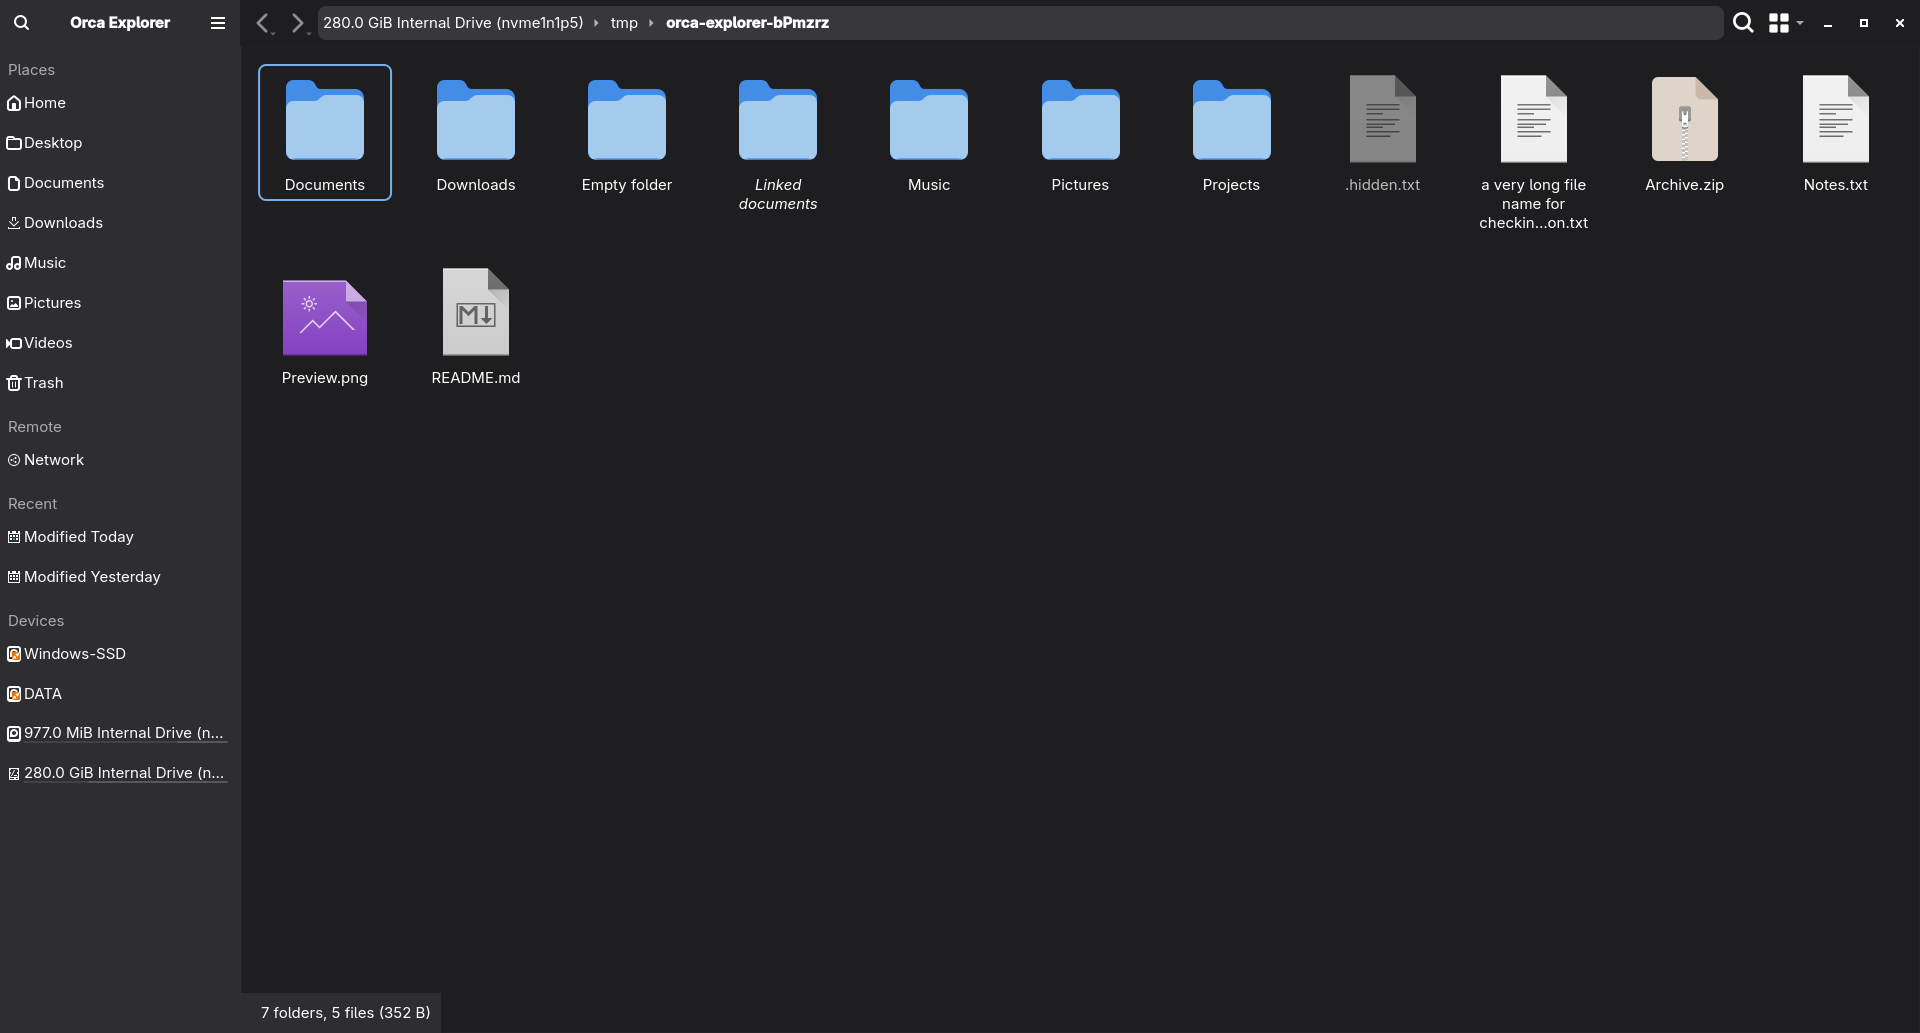
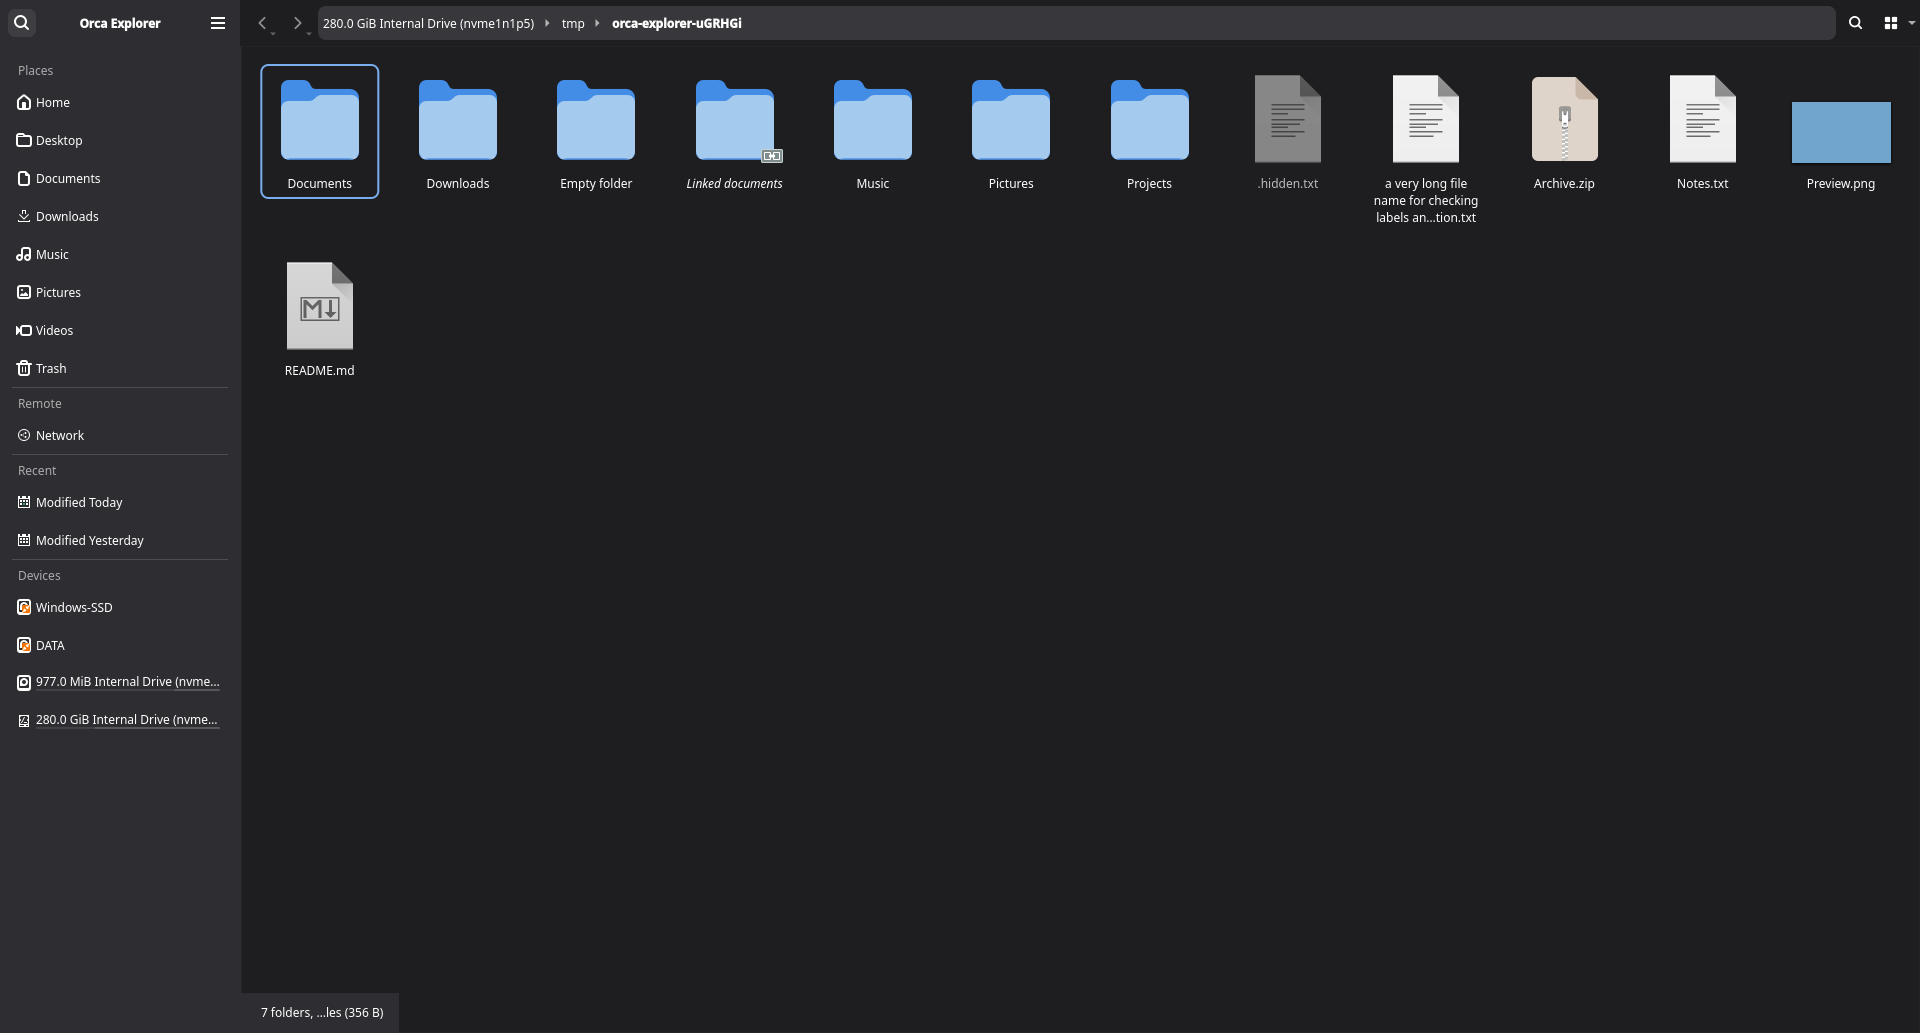
Enhance UI elements and improve toolbar button appearance in PlacesPanel and GnomeHeaderBar

diff --git a/src/tests/dolphinappearancetest.cpp b/src/tests/dolphinappearancetest.cpp
@@ -35,9 +35,12 @@
 #include <QDirIterator>
 #include <QDockWidget>
 #include <QDomDocument>
+#include <QElapsedTimer>
 #include <QImage>
+#include <QPainter>
 #include <QScopeGuard>
 #include <QSignalSpy>
+#include <QStyleOptionToolButton>
 #include <QTemporaryDir>
 #include <QTest>
 #include <QTimer>
@@ -256,13 +259,60 @@ void DolphinAppearanceTest::mainWindowActions()
     }
     if (m_gnome) {
         auto *header = window.findChild<QWidget *>(QStringLiteral("gnomeSidebarHeader"));
-        auto *back = toolbar->widgetForAction(window.actionCollection()->action(QStringLiteral("go_back")));
-        auto *forward = toolbar->widgetForAction(window.actionCollection()->action(QStringLiteral("go_forward")));
+        auto *back = qobject_cast<QToolButton *>(toolbar->widgetForAction(window.actionCollection()->action(QStringLiteral("go_back"))));
+        auto *forward = qobject_cast<QToolButton *>(toolbar->widgetForAction(window.actionCollection()->action(QStringLiteral("go_forward"))));
         QVERIFY(back);
         QVERIFY(forward);
         QTRY_VERIFY(back->isVisible());
         QTRY_VERIFY(back->geometry().left() >= header->geometry().right());
-        QVERIFY(forward->geometry().left() > back->geometry().left());
+        QVERIFY(forward->geometry().left() > back->geometry().right());
+        QCOMPARE(places->spacing(), 0);
+        QCOMPARE(places->viewport()->geometry().left(), places->contentsRect().left() + 12);
+        QCOMPARE(places->viewport()->geometry().top(), places->contentsRect().top() + 8);
+        for (int row = 0; row < places->model()->rowCount(); ++row) {
+            if (!places->isRowHidden(row)) {
+                QVERIFY(places->visualRect(places->model()->index(row, 0)).height() >= 38);
+            }
+        }
+        // Saved or customized toolbar sizes must not enlarge header icons.
+        toolbar->setIconSize(QSize(32, 32));
+        QToolButton *previousButton = nullptr;
+        for (const auto *name : {"go_back", "go_forward", "toggle_search", "view_settings"}) {
+            auto *button = qobject_cast<QToolButton *>(toolbar->widgetForAction(window.actionCollection()->action(QString::fromLatin1(name))));
+            QVERIFY(button);
+            QTRY_COMPARE(button->iconSize(), QSize(14, 14));
+            QVERIFY(button->width() >= 32);
+            QVERIFY(button->height() >= 32);
+            // Qt can supply a larger parent-toolbar size to the paint option.
+            QImage rendered(32, 32, QImage::Format_ARGB32_Premultiplied);
+            rendered.fill(Qt::transparent);
+            QStyleOptionToolButton option;
+            option.initFrom(button);
+            option.rect = rendered.rect();
+            option.state = QStyle::State_Enabled | QStyle::State_AutoRaise;
+            option.subControls = QStyle::SC_ToolButton;
+            option.icon = button->icon();
+            option.iconSize = QSize(32, 32);
+            QPainter painter(&rendered);
+            button->style()->drawComplexControl(QStyle::CC_ToolButton, &option, &painter, button);
+            painter.end();
+            QRect painted;
+            for (int y = 0; y < rendered.height(); ++y) {
+                for (int x = 0; x < rendered.width(); ++x) {
+                    if (rendered.pixelColor(x, y).alpha()) {
+                        painted = painted.united(QRect(x, y, 1, 1));
+                    }
+                }
+            }
+            QVERIFY(!painted.isEmpty());
+            QVERIFY(painted.width() <= 14);
+            QVERIFY(painted.height() <= 14);
+            if (previousButton) {
+                QTRY_VERIFY(button->geometry().left() > previousButton->geometry().right());
+            }
+            previousButton = button;
+        }
+        toolbar->setIconSize(QSize(16, 16));
         auto *navigator = window.findChild<DolphinUrlNavigator *>();
         const QImage breadcrumb = navigator->grab().toImage();
         QCOMPARE(breadcrumb.pixelColor(breadcrumb.width() / 2, breadcrumb.height() - 3), navigator->palette().color(QPalette::Button));
@@ -287,6 +337,13 @@ void DolphinAppearanceTest::mainWindowActions()
         QTRY_VERIFY(window.findChild<QWidget *>(QStringLiteral("gnomeSidebarHeader")));
         QTRY_VERIFY(window.findChild<QWidget *>(QStringLiteral("gnomeSidebarHeader"))->isVisible());
         QTRY_VERIFY(toolbar->widgetForAction(window.actionCollection()->action(QStringLiteral("go_back")))->isVisible());
+        for (const auto *name : {"go_back", "go_forward", "toggle_search", "view_settings"}) {
+            auto *button = qobject_cast<QToolButton *>(toolbar->widgetForAction(window.actionCollection()->action(QString::fromLatin1(name))));
+            QVERIFY(button);
+            QTRY_COMPARE(button->iconSize(), QSize(14, 14));
+            QVERIFY(button->width() >= 32);
+            QVERIFY(button->height() >= 32);
+        }
     }
     // Native header close must still take Dolphin's confirmation path.
     GeneralSettings::setRememberOpenedTabs(false);
@@ -386,12 +443,25 @@ void DolphinAppearanceTest::visualCapture()
     window.activeViewContainer()->view()->setHiddenFilesShown(true);
     const auto manager = KColorSchemeManager::instance();
     for (const auto &scheme : {QStringLiteral("GnomeLight"), QStringLiteral("GnomeDark")}) {
-        manager->activateScheme(manager->indexForScheme(scheme));
+        manager->activateSchemeId(scheme);
         QTRY_COMPARE(QApplication::palette().color(QPalette::Window).lightness() < 128, scheme.endsWith(QLatin1String("Dark")));
+        QTRY_COMPARE(QIcon::themeName(),
+                     scheme.endsWith(QLatin1String("Dark")) ? QStringLiteral("orca-explorer-gnome-dark") : QStringLiteral("orca-explorer-gnome-light"));
         for (const auto &size : {QSize(1920, 1033), QSize(1024, 768)}) {
             window.resize(size);
             QTRY_COMPARE(window.size(), size);
-            QCoreApplication::processEvents();
+            // Capture after asynchronous theme changes and Places animations settle.
+            QImage previous;
+            QElapsedTimer unchanged;
+            unchanged.start();
+            QVERIFY(QTest::qWaitFor([&window, &previous, &unchanged]() {
+                const QImage current = window.grab().toImage();
+                if (current != previous) {
+                    previous = current;
+                    unchanged.restart();
+                }
+                return unchanged.elapsed() >= 200;
+            }));
             QVERIFY(window.grab().save(output + QStringLiteral("/orca-%1-%2x%3-%4x.png").arg(scheme).arg(size.width()).arg(size.height()).arg(window.devicePixelRatioF())));
         }
     }

diff --git a/src/dolphinappearance.cpp b/src/dolphinappearance.cpp
@@ -11,6 +11,7 @@
 #include <KIconTheme>
 #include <KSharedConfig>
 
+#include <QAction>
 #include <QApplication>
 #include <QDBusConnection>
 #include <QDBusInterface>
@@ -26,9 +27,11 @@
 #include <QStyleHints>
 #include <QStyleOptionButton>
 #include <QStyleOptionMenuItem>
+#include <QStyleOptionToolButton>
 #include <QStyleOptionViewItem>
 #include <QTimer>
 #include <QToolBar>
+#include <QToolButton>
 
 static void initAppearanceResources()
 {
@@ -74,7 +77,7 @@ public:
         if (type == CT_ToolButton) {
             result = result.expandedTo(QSize(32, 32));
         } else if (type == CT_ItemViewItem && widget && widget->inherits("KFilePlacesView")) {
-            result.setHeight(qMax(36, result.height()));
+            result.setHeight(qMax(38, result.height()));
         }
         return result;
     }
@@ -163,6 +166,25 @@ public:
             }
         }
         QProxyStyle::drawControl(element, option, painter, widget);
+    }
+
+    void drawComplexControl(ComplexControl control, const QStyleOptionComplex *option, QPainter *painter, const QWidget *widget) const override
+    {
+        const auto *button = qobject_cast<const QToolButton *>(widget);
+        const auto *toolOption = qstyleoption_cast<const QStyleOptionToolButton *>(option);
+        if (control == CC_ToolButton && button && toolOption && button->parentWidget() && button->parentWidget()->objectName() == QLatin1String("mainToolBar")
+            && button->defaultAction()) {
+            const QString name = button->defaultAction()->objectName();
+            if (name == QLatin1String("go_back") || name == QLatin1String("go_forward") || name == QLatin1String("toggle_search")
+                || name == QLatin1String("view_settings")) {
+                // Qt paints toolbar buttons using the parent toolbar's icon size.
+                QStyleOptionToolButton copy(*toolOption);
+                copy.iconSize = QSize(14, 14);
+                QProxyStyle::drawComplexControl(control, &copy, painter, widget);
+                return;
+            }
+        }
+        QProxyStyle::drawComplexControl(control, option, painter, widget);
     }
 
     void polish(QWidget *widget) override

diff --git a/src/panels/places/placespanel.cpp b/src/panels/places/placespanel.cpp
@@ -28,6 +28,7 @@
 #include <QIcon>
 #include <QMenu>
 #include <QMimeData>
+#include <QPainter>
 #include <QShowEvent>
 
 #include <Solid/StorageAccess>
@@ -36,7 +37,8 @@ PlacesPanel::PlacesPanel(QWidget *parent)
     : KFilePlacesView(parent)
 {
     if (DolphinAppearance::isEnabled()) {
-        setSpacing(2);
+        setSpacing(0);
+        setViewportMargins(12, 8, 12, 8);
         setBackgroundRole(QPalette::Window);
         viewport()->setBackgroundRole(QPalette::Window);
     }
@@ -93,6 +95,34 @@ PlacesPanel::PlacesPanel(QWidget *parent)
 }
 
 PlacesPanel::~PlacesPanel() = default;
+
+void PlacesPanel::paintEvent(QPaintEvent *event)
+{
+    KFilePlacesView::paintEvent(event);
+    if (!DolphinAppearance::isEnabled()) {
+        return;
+    }
+
+    QPainter painter(viewport());
+    QColor divider = palette().color(QPalette::WindowText);
+    divider.setAlphaF(0.15);
+    painter.setPen(divider);
+    QString previousGroup;
+    bool first = true;
+    for (int row = 0; row < model()->rowCount(); ++row) {
+        if (isRowHidden(row)) {
+            continue;
+        }
+        const QModelIndex index = model()->index(row, 0);
+        const QString group = index.data(KFilePlacesModel::GroupRole).toString();
+        if (!first && group != previousGroup) {
+            const int y = visualRect(index).top();
+            painter.drawLine(0, y, viewport()->width() - 1, y);
+        }
+        previousGroup = group;
+        first = false;
+    }
+}
 
 void PlacesPanel::setUrl(const QUrl &url)
 {

diff --git a/src/gnomeheaderbar.cpp b/src/gnomeheaderbar.cpp
@@ -74,6 +74,14 @@ GnomeHeaderBar::GnomeHeaderBar(DolphinMainWindow *window, KToolBar *toolbar, QDo
     setButtonLayout(QStringLiteral(":minimize,maximize,close"));
 
     qApp->installEventFilter(this);
+    connect(
+        m_toolbar,
+        &QToolBar::iconSizeChanged,
+        this,
+        [this]() {
+            updateGeometryAndFrame();
+        },
+        Qt::QueuedConnection);
 
     if (m_nativeGnomeWayland) {
         QDBusInterface settings(QStringLiteral("org.freedesktop.portal.Desktop"),
@@ -198,6 +206,12 @@ void GnomeHeaderBar::updateGeometryAndFrame()
     m_prefixSpace->setFixedWidth(qMax(0, sidebarWidth + leftWidth - handleWidth));
     m_prefixAction->setVisible(top);
     const auto actions = m_toolbar->actions();
+    for (const auto *name : {"go_back", "go_forward", "toggle_search", "view_settings"}) {
+        if (auto *button = qobject_cast<QToolButton *>(m_toolbar->widgetForAction(m_window->actionCollection()->action(QString::fromLatin1(name))))) {
+            button->setIconSize(QSize(14, 14));
+            button->setMinimumSize(32, 32);
+        }
+    }
     if (actions.isEmpty() || actions.front() != m_prefixAction) {
         m_toolbar->removeAction(m_prefixAction);
         m_toolbar->insertAction(actions.isEmpty() ? nullptr : actions.front(), m_prefixAction);

diff --git a/src/panels/places/placespanel.h b/src/panels/places/placespanel.h
@@ -54,6 +54,7 @@ Q_SIGNALS:
     void openInSplitViewRequested(const QUrl &url);
 
 protected:
+    void paintEvent(QPaintEvent *event) override;
     void dragMoveEvent(QDragMoveEvent *event) override;
 
 private Q_SLOTS:

diff --git a/README.md b/README.md
@@ -4,7 +4,7 @@ Orca Explorer is an independent file manager fork based on **KDE Dolphin 26.08.2
 
 This project is not an official KDE application and is not affiliated with GNOME's Orca screen reader. The repository URL below is the intended publication destination; availability is not implied.
 
-![Orca Explorer on GNOME Wayland, dark appearance](docs/screenshots/orca-GnomeDark-1920x1033-1x.png)
+![Orca Explorer with GNOME Files dark appearance, updated sidebar spacing and 14 px header icons](docs/screenshots/orca-GnomeDark-1920x1033-1x.png)
 
 ## Features
 
